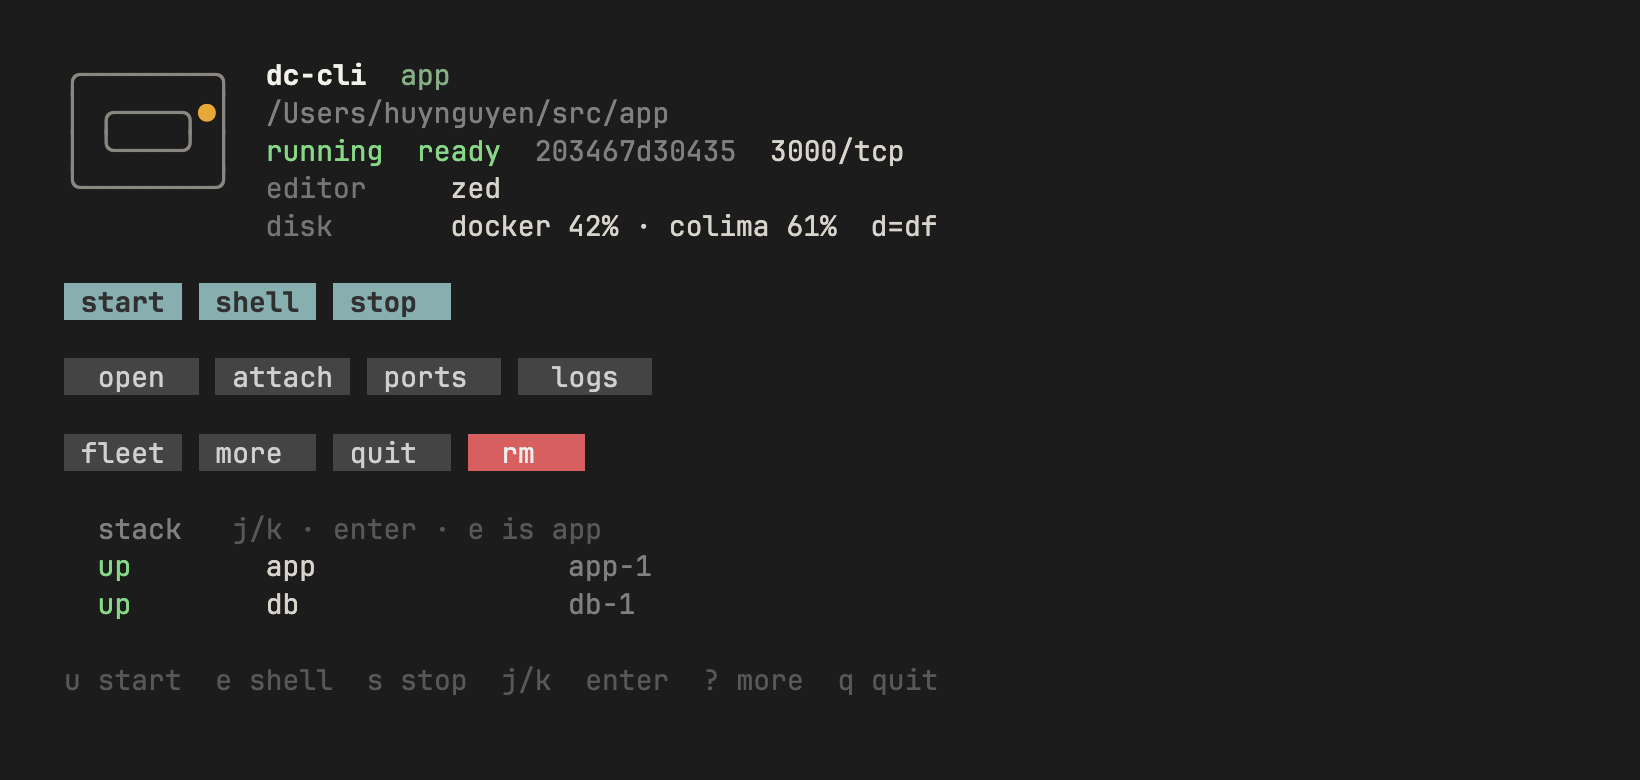
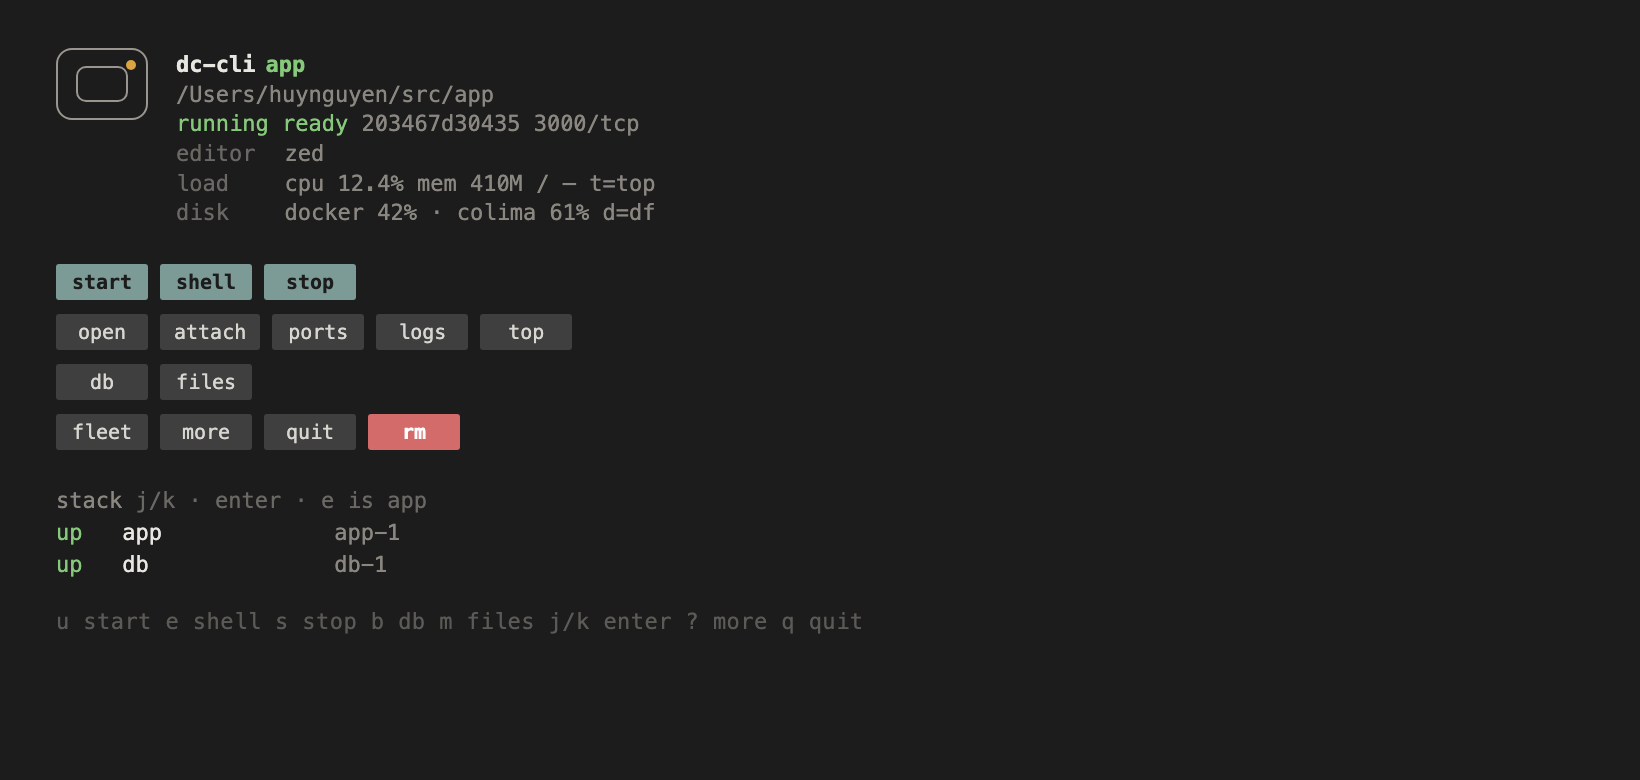
docs(site): show TUI top key in board shots
Replace the stale tui.png, add the top overlay shot, and mention t on the homepage command list and meta description.

diff --git a/site/src/content/guides/tui.md b/site/src/content/guides/tui.md
@@ -31,7 +31,11 @@ dc-tui --all        # every labeled workspace
 
 Startup draws the **dc-cli** mark (host frame + phosphor pip). Any key skips. `DC_TUI_NO_SPLASH=1` skips it. The compact mark stays in the header.
 
-![dc-tui board](/images/tui.png)
+![dc-tui board with top next to logs](/images/tui.png)
+
+Header **load** line is `dc-stats`. Press **t** or click **top**.
+
+![dc-tui top overlay: CPU, RAM, net, q/t back](/images/tui-top.png)
 
 Primary row: **start** · **shell** · **stop**. Meta is quieter. **rm** asks `y/n`. Stack / fleet: **up** / **down**, `j`/`k` or click, Enter to open or exec.
 

diff --git a/README.md b/README.md
@@ -91,7 +91,7 @@ dc-prune --yes                  # cache + dangling images + nets + orphan sideca
 
 ## TUI
 
-<img width="820" alt="dc-tui board: start, shell, stop, then meta actions" src="site/public/images/tui.png" />
+<img width="820" alt="dc-tui board: start, shell, stop, then open attach ports logs top" src="site/public/images/tui.png" />
 
 ```
 dc-tui              # this folder (cwd, then git root)
